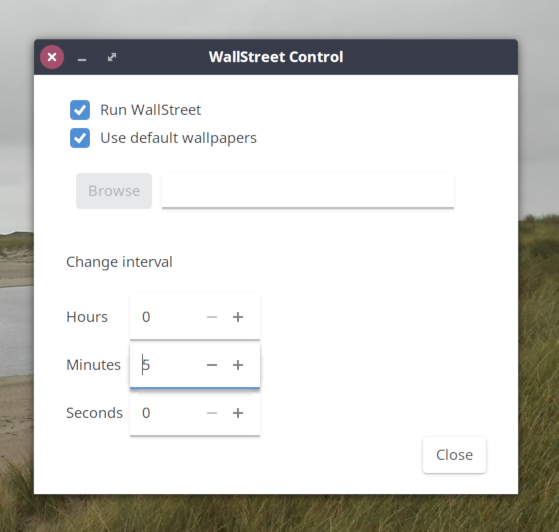
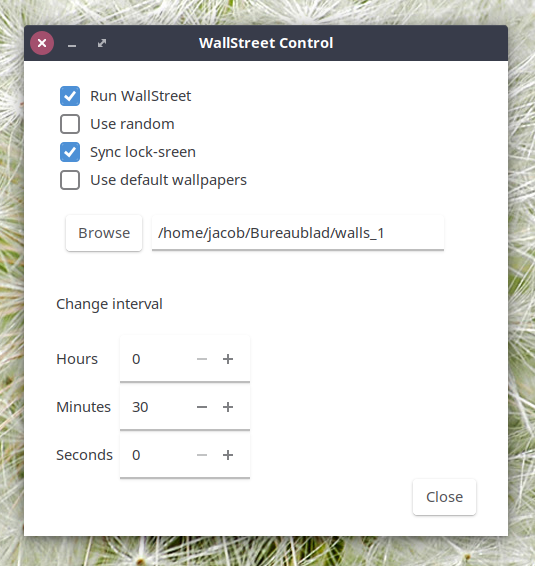
Updated WallStreet README.md and image.

diff --git a/budgie-wallstreet/README.md b/budgie-wallstreet/README.md
@@ -4,6 +4,8 @@ Budgie WallStreet is a mini-app to switch wallpapers on regular intervalls. Opti
 
 - set a custom folder with wallpapers to rotate
 - set time interval in hours/minutes/seconds
+- use random order
+- synchronize lock-screen wallpaper
 
 By default, the default set of wallpepers is rotated.
 
